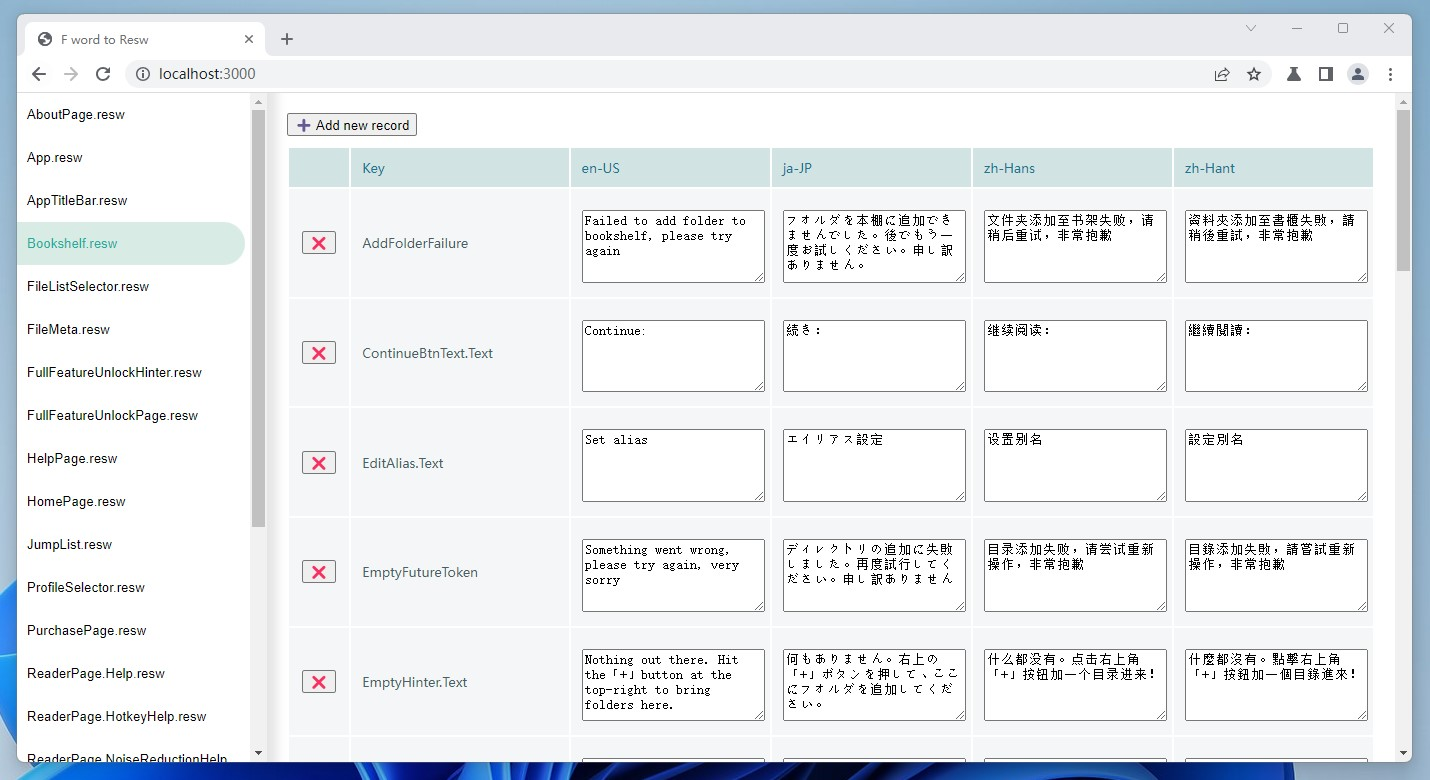
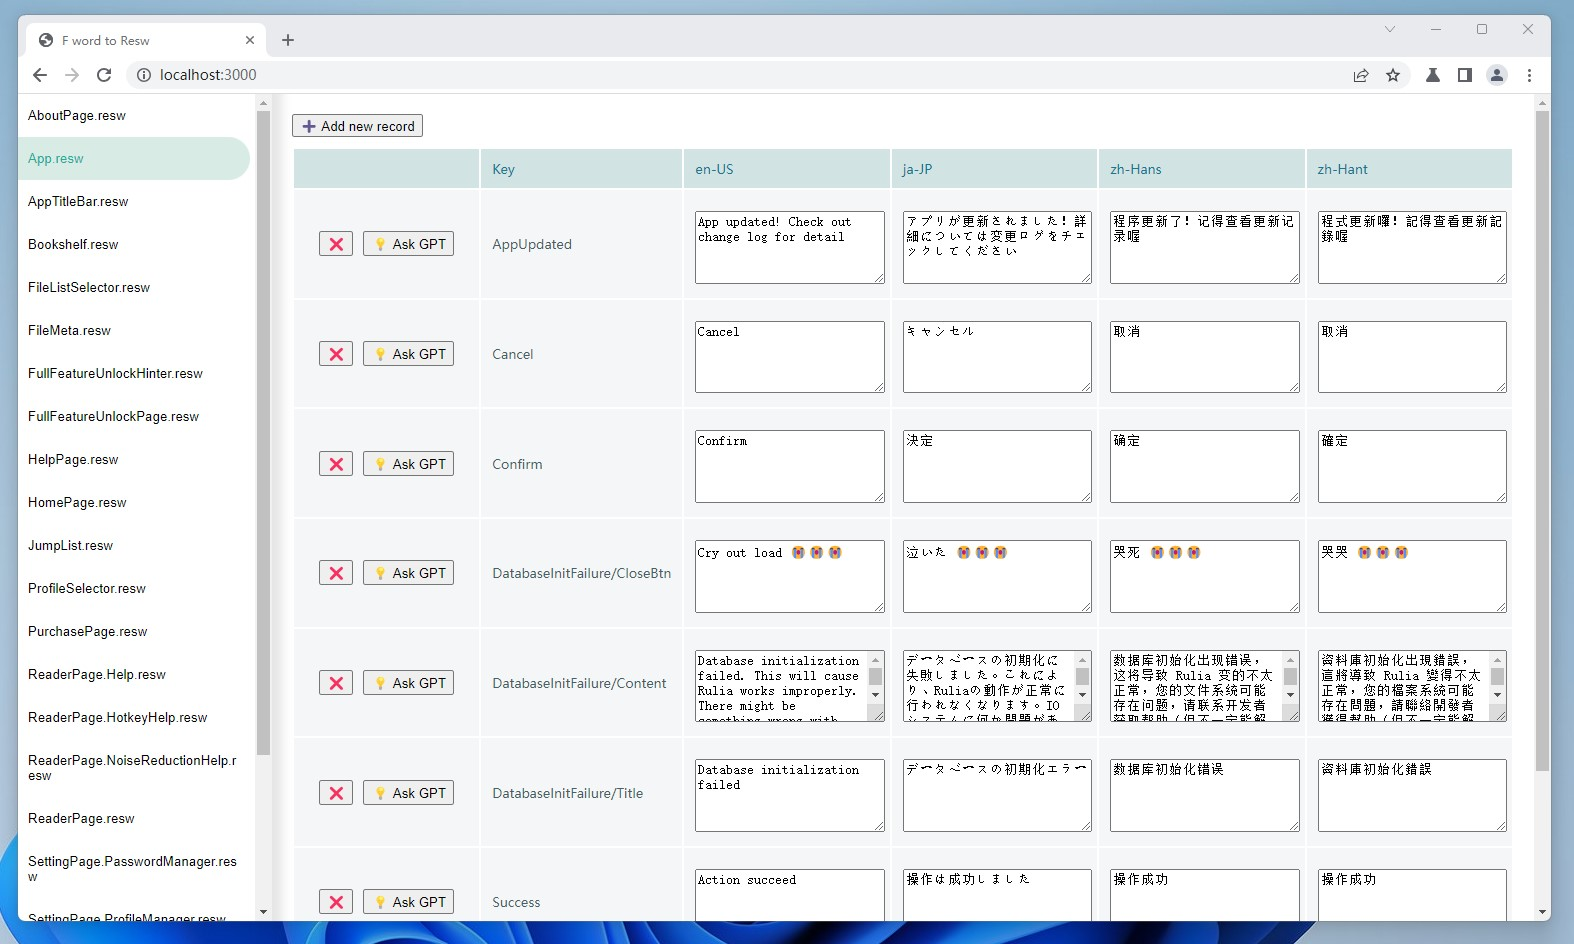
+ Add GPT Translation.

diff --git a/views/index/components/table-view.tsx b/views/index/components/table-view.tsx
@@ -3,6 +3,7 @@ import { defineComponent } from 'vue'
 import { useApp } from '../hooks/app'
 
 import './table-view.styl'
+import e from 'express'
 
 const TableView = defineComponent({
   name: 'TableView',
@@ -10,8 +11,8 @@ const TableView = defineComponent({
     const {
       filenameRef, reswDataRef,
       langList, reswKeyList,
-      loadFileContent, getValue, updateText, submitSingleLangChanges,
-      removeKey
+      getValue, updateText, submitSingleLangChanges,
+      removeKey, reload, translateKeyByGpt
     } = useApp()
 
     const onTextareaBlur = async (event: FocusEvent, lang: string, key: string) => {
@@ -49,7 +50,7 @@ const TableView = defineComponent({
         await submitSingleLangChanges(lang, filenameRef.value)
       }
 
-      await loadFileContent(filenameRef.value)
+      await reload()
     }
 
     const onRemoveButtonClick = async (event: Event, key: string) => {
@@ -59,6 +60,13 @@ const TableView = defineComponent({
       const target = event.target as HTMLButtonElement
       target.disabled = true
       await removeKey(key)
+      target.disabled = false
+    }
+
+    const onGptTranslationBtnClick = async (event: Event, key: string) => {
+      const target = event.target as HTMLButtonElement
+      target.disabled = true
+      await translateKeyByGpt(key)
       target.disabled = false
     }
 
@@ -87,8 +95,8 @@ const TableView = defineComponent({
         reswKeyList.value.map(key => (
           <tr>
             <td class='t-center'>
-              <button onClick={event => onRemoveButtonClick(event, key as string)}>❌
-              </button>
+              <button onClick={event => onRemoveButtonClick(event, key as string)}>❌</button>
+              <button onClick={event => onGptTranslationBtnClick(event, key as string)}>💡 Ask GPT</button>
             </td>
             <td>{key}</td>
             {

diff --git a/controllers/index.ts b/controllers/index.ts
@@ -1,7 +1,9 @@
+import fs from 'fs'
 import { Application } from 'express'
+
 import { getTemplate } from '../modules/template'
 import { readReswFile, readStringFolder, writeReswFile } from '../modules/resw'
-import fs from 'fs'
+import { askGpt } from '../modules/openai'
 
 const initControllers = (app: Application) => {
   app.get('/', (req, res) => {
@@ -31,12 +33,32 @@ const initControllers = (app: Application) => {
       lang: string
       xmlStr: string
     }
-
     try {
       writeReswFile(body.filename, body.lang, body.xmlStr)
       res.send({
         message: 'OK'
       })
+    } catch (error) {
+      res.status(500).send(error)
+    }
+  })
+
+  app.post('/translate', async (req, res) => {
+    const body = req.body as {
+      text: string
+    }
+
+    const text = body.text
+    const { lang: langList } = readStringFolder()
+    let prompt = 'Translate this sentence into these languages and send me in json format:'
+    langList.forEach(lang => {
+      prompt += ` - ${lang}\n`
+    })
+    prompt += text
+
+    try {
+      const response = await askGpt(prompt)
+      res.json(JSON.parse(response))
     } catch (error) {
       res.status(500).send(error)
     }

diff --git a/views/index/hooks/app.ts b/views/index/hooks/app.ts
@@ -22,6 +22,11 @@ const loadFileContent = async (filename: string) => {
   console.log(reswDataRef.value)
 }
 
+const reload = () => {
+  const filename = filenameRef.value
+  return loadFileContent(filename)
+}
+
 const langList = computed(() => {
   return Object.keys(reswDataRef.value)
 })
@@ -136,6 +141,30 @@ const removeKey = async (key: string) => {
   await loadFileContent(filenameRef.value)
 }
 
+const translateKeyByGpt = async (key: string) => {
+  const content = window.prompt('Please enter the text:')
+  if (!content) {
+    return
+  }
+
+  const result = await fetch('/translate', {
+    method: 'POST',
+    headers: {
+      'Content-Type': 'application/json'
+    },
+    body: JSON.stringify({
+      text: content
+    })
+  }).then(item => item.json() as Promise<Record<string, string>>)
+
+  for (const lang of Object.keys(result)) {
+    const value = result[lang]
+    await updateText(lang, key, value)
+  }
+
+  await reload()
+}
+
 const useApp = () => {
   return {
     filenameRef,
@@ -147,7 +176,9 @@ const useApp = () => {
     getValue,
     updateText,
     submitSingleLangChanges,
-    removeKey
+    removeKey,
+    reload,
+    translateKeyByGpt
   }
 }
 

diff --git a/modules/openai.ts b/modules/openai.ts
@@ -1,0 +1,21 @@
+import { Configuration, OpenAIApi } from 'openai'
+import { OPEN_AI_KEY, OPEN_AI_ORG } from '../config/app-config'
+
+const askGpt = async (prompt: string): Promise<string> => {
+  const openai = new OpenAIApi(new Configuration({
+    organization: OPEN_AI_ORG,
+    apiKey: OPEN_AI_KEY
+  }))
+
+  const response = await openai.createChatCompletion({
+    model: 'gpt-3.5-turbo',
+    messages: [{ role: 'user', content: prompt }],
+    temperature: 0.5
+  })
+
+  return (response?.data?.choices?.[0]?.message?.content ?? '').trim()
+}
+
+export {
+  askGpt
+}

diff --git a/config/app-config.ts b/config/app-config.ts
@@ -1,7 +1,11 @@
 import path from 'path'
 
 const STRING_FOLDER_PATH = path.join(process.env.STRING_FOLDER_PATH as string)
+const OPEN_AI_KEY = process.env.OPEN_AI_KEY
+const OPEN_AI_ORG = process.env.OPEN_AI_ORG
 
 export {
-  STRING_FOLDER_PATH
+  STRING_FOLDER_PATH,
+  OPEN_AI_KEY,
+  OPEN_AI_ORG
 }

diff --git a/README.md b/README.md
@@ -20,9 +20,13 @@ Please create a `.env` file:
 HOST=0.0.0.0
 PORT=3000
 STRING_FOLDER_PATH=C:\SOME_PATH\TO\YOUR\STRING\FOLDER
+OPEN_AI_KEY=YOUR_OPEN_AI_KEY
+OPEN_AI_ORG=YOUR_OEPN_AI_ORG_ID
 ```
 
 `STRING_FOLDER_PATH` points to the `Strings` folder in your .NET project.
+
+If you don't use the ChatGPT translation, you don't need to fill the OpenAI thing.
 
 ## Notice
 
